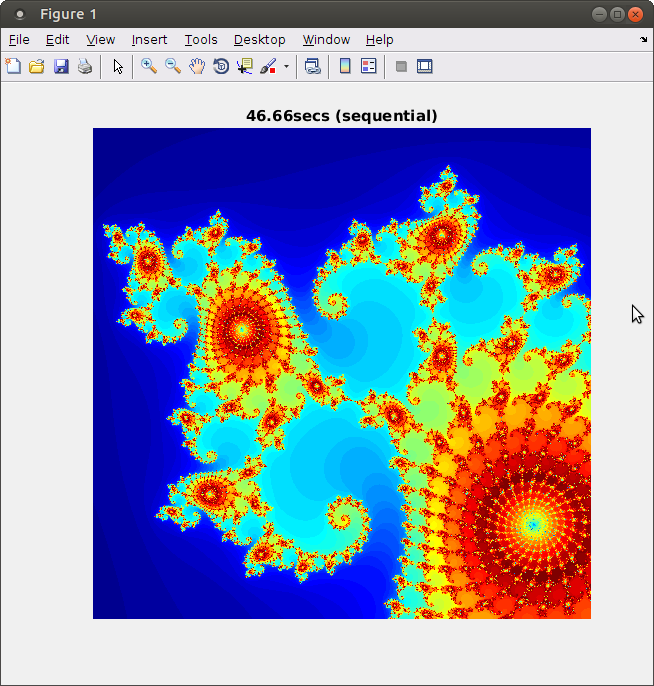
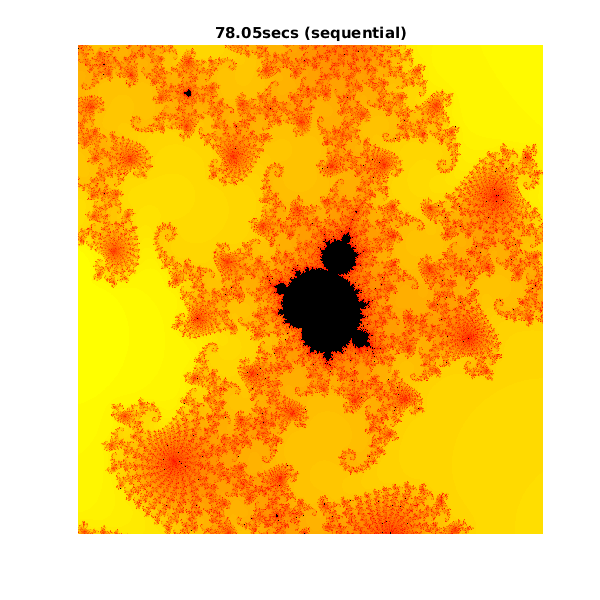
Updated Mandelbrot to something different and nice looking

diff --git a/code/mandelbrot/mandelbrot_original.m b/code/mandelbrot/mandelbrot_original.m
@@ -9,18 +9,19 @@ x = linspace( xlim(1), xlim(2), gridSize );
 y = linspace( ylim(1), ylim(2), gridSize );
 [xGrid,yGrid] = meshgrid( x, y );
 z0 = xGrid + 1i*yGrid;
-count = ones( size(z0) );
-z = zeros(gridSize);
 
 % Calculate
-parfor ii = 1:gridSize
+ipos = 1;
+for ii = 1:gridSize
+    count(ii,:) = ones(1,size(z0,2));
     for jj = 1:gridSize
-        z(ii,jj) = z0(ii,jj);
-        while count(ii,jj) < maxIterations && abs(z(ii,jj))<=2
-            z(ii,jj) = z(ii,jj)*z(ii,jj) + z0(ii,jj);
+        z(ipos,jj) = z0(ii,jj);
+        while count(ii,jj) < maxIterations && abs(z(ipos,jj))<=2
+            z(ipos,jj) = z(ipos,jj)*z(ipos,jj) + z0(ii,jj);
             count(ii,jj) = count(ii,jj)+1;
         end
     end
+    ipos = ipos + 1;
 end
 count = log( count );
 
@@ -31,5 +32,5 @@ fig.Position = [200 200 600 600];
 imagesc( x, y, count );
 colormap(fig, [flipud(autumn()); 0 0 0] );
 axis off
-title( sprintf( '%1.2fsecs (fixthis)', cpuTime ) );
+title( sprintf( '%1.2fsecs (sequential)', cpuTime ) );
 cpuTime

diff --git a/code/mandelbrot/solution/mandelbrot_parallel.m b/code/mandelbrot/solution/mandelbrot_parallel.m
@@ -4,9 +4,9 @@ end
 
 maxIterations = 1000;
 gridSize = 2000;
-xlim = [-0.748766713922161, -0.748766707771757];
-ylim = [ 0.123640844894862,  0.123640851045266];
-
+xlim = [-0.744277119204761 -0.742029680722771];
+ylim = [-0.140529505375656 -0.138282066893665];
+  
 % Setup
 t = tic();
 x = linspace( xlim(1), xlim(2), gridSize );
@@ -34,7 +34,7 @@ if MANDELBROT_VISUAL
     fig = figure;
     fig.Position = [200 200 600 600];
     imagesc( x, y, count );
-    colormap( [jet();flipud( jet() );0 0 0] );
+    colormap(fig, [flipud(autumn()); 0 0 0] );
     axis off
     title( sprintf( '%1.2fsecs (parallel)', cpuTime ) );
     cpuTime

diff --git a/code/mandelbrot/solution/mandelbrot_sequential.m b/code/mandelbrot/solution/mandelbrot_sequential.m
@@ -4,8 +4,8 @@ end
 
 maxIterations = 1000;
 gridSize = 2000;
-xlim = [-0.748766713922161, -0.748766707771757];
-ylim = [ 0.123640844894862,  0.123640851045266];
+xlim = [-0.744277119204761 -0.742029680722771];
+ylim = [-0.140529505375656 -0.138282066893665];
 
 % Setup
 t = tic();
@@ -34,7 +34,7 @@ if MANDELBROT_VISUAL
     fig = figure;
     fig.Position = [200 200 600 600];
     imagesc( x, y, count );
-    colormap( [jet();flipud( jet() );0 0 0] );
+    colormap(fig, [flipud(autumn()); 0 0 0] );
     axis off
     title( sprintf( '%1.2fsecs (sequential)', cpuTime ) );
     cpuTime

diff --git a/code/mandelbrot/solution/mandelbrot_vectorized.m b/code/mandelbrot/solution/mandelbrot_vectorized.m
@@ -4,8 +4,8 @@ end
 
 maxIterations = 1000;
 gridSize = 2000;
-xlim = [-0.748766713922161, -0.748766707771757];
-ylim = [ 0.123640844894862,  0.123640851045266];
+xlim = [-0.744277119204761 -0.742029680722771];
+ylim = [-0.140529505375656 -0.138282066893665];
 
 % Setup
 t = tic();
@@ -30,7 +30,7 @@ if MANDELBROT_VISUAL
     fig = figure;
     fig.Position = [200 200 600 600];
     imagesc( x, y, count );
-    colormap( [jet();flipud( jet() );0 0 0] );
+    colormap(fig, [flipud(autumn()); 0 0 0] );
     axis off
     title( sprintf( '%1.2fsecs (vectorized)', cpuTime ) );
     cpuTime

diff --git a/code/mandelbrot/solution/comparespeed.m b/code/mandelbrot/solution/comparespeed.m
@@ -3,7 +3,7 @@
 % compare the relative speeds of the scripts.
 
 addpath '..';
-scripts = {'mandelbrot_fixthis', 'mandelbrot_sequential', 'mandelbrot_parallel', 'mandelbrot_vectorized'};
+scripts = {'mandelbrot_sequential', 'mandelbrot_parallel', 'mandelbrot_vectorized'};
 
 % Number of timing repetitions for each script
 reps = 1;

diff --git a/code/mandelbrot/solution/colormaptest.m b/code/mandelbrot/solution/colormaptest.m
@@ -1,0 +1,7 @@
+fig = figure;
+%fig.Position = [200 200 600 600];
+imagesc( x, y, count );
+
+colormap( [flipud(autumn()); 0 0 0] );
+
+axis off
